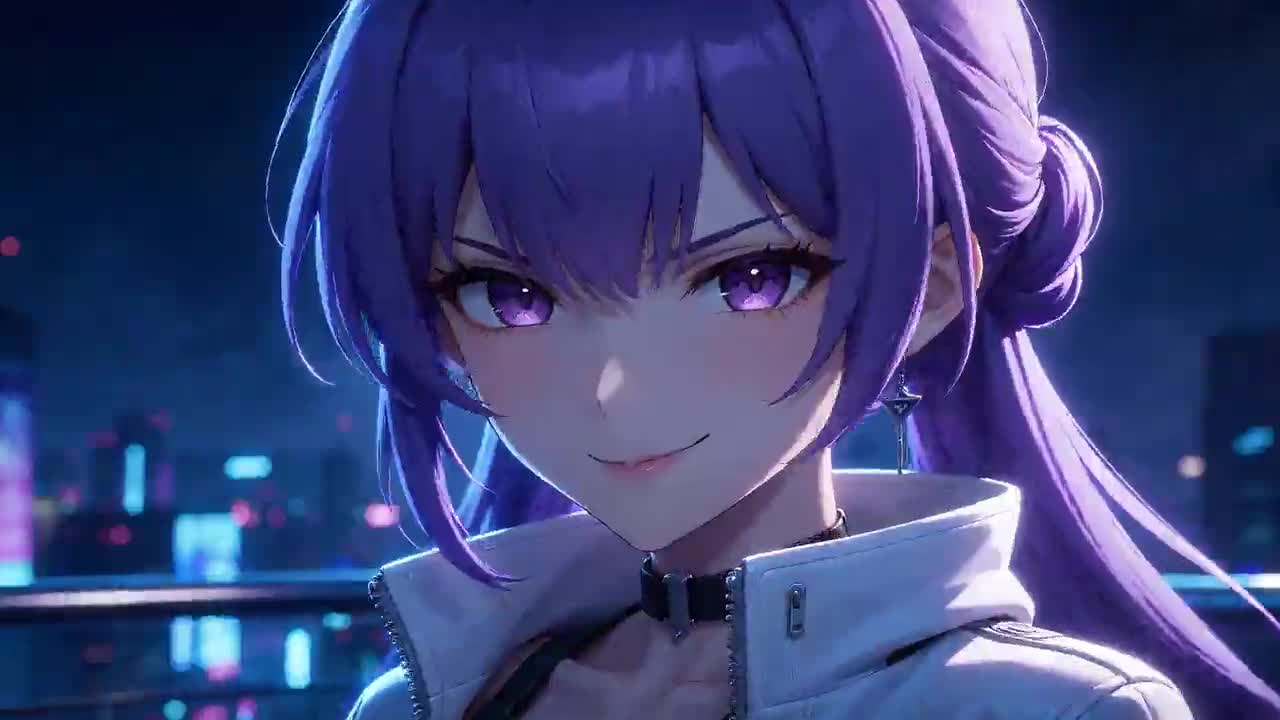
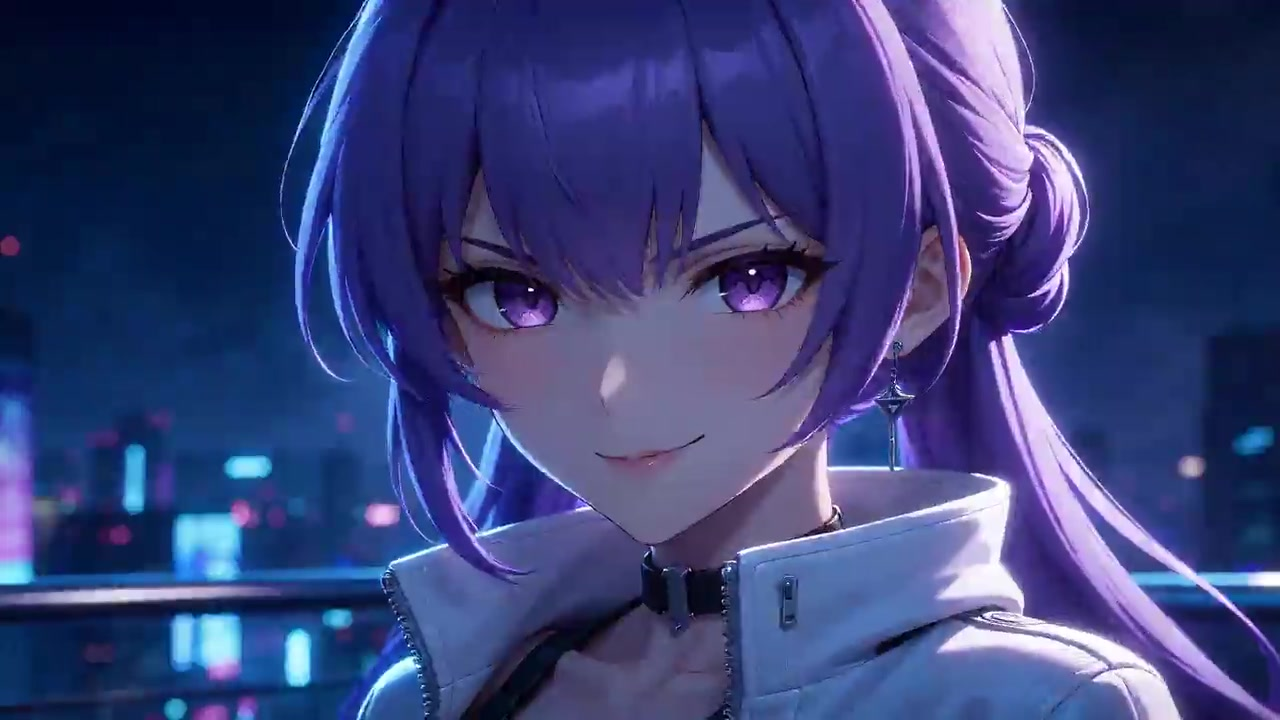
feat(hero): left-bottom typography + 15744 video cover, 720p Main CRF36

diff --git a/index.html b/index.html
@@ -105,28 +105,29 @@
     left:50%;right:50%;
     margin-left:-50vw;margin-right:-50vw;
     background:var(--midnight);
-    overflow:hidden;display:flex;flex-direction:column;justify-content:center;align-items:center;
+    overflow:hidden;display:flex;flex-direction:column;justify-content:flex-end;align-items:flex-start;
     padding:0;
     z-index:2;
   }
   .hero-media{position:absolute;inset:0;z-index:3;overflow:hidden;background:var(--midnight);width:100vw;height:100vh}
-  .hero-scrim{display:none}
-  /* Hello, I'm 谢丽丽 - 参考截图风格 */
-  .hero-inner{position:relative;z-index:50;width:100%;max-width:var(--page-max);margin:0 auto;text-align:center;padding:0 24px}
+  .hero-bg-video{position:absolute;inset:0;width:100%;height:100%;object-fit:cover;display:block}
+  .hero-scrim{position:absolute;inset:0;z-index:4;background:linear-gradient(180deg,rgba(7,7,7,.25) 0%,rgba(7,7,7,.45) 55%,rgba(7,7,7,.72) 100%);pointer-events:none}
+  /* Hello, I'm 谢丽丽 - 左下角 */
+  .hero-inner{position:relative;z-index:50;width:100%;max-width:var(--page-max);margin:0 auto;text-align:left;padding:0 48px 10vh}
 
   .hero-hello{
     font-family:'Dancing Script','Brush Script MT','Comic Sans MS',cursive;
     font-style:italic;
-    font-size:clamp(36px,6vw,64px);
+    font-size:clamp(32px,5vw,56px);
     color:var(--ember);
-    margin:0 0 8px;
+    margin:0 0 6px;
     line-height:1.1;
     letter-spacing:0;
   }
   .hero-name-large{
     font-family:'Noto Sans SC','HarmonyOS Sans SC','PingFang SC',-apple-system,'Source Han Sans SC','Microsoft YaHei',sans-serif;
     font-weight:900;
-    font-size:clamp(72px,14vw,160px);
+    font-size:clamp(64px,11vw,140px);
     line-height:1;
     letter-spacing:.02em;
     color:#fff;
@@ -134,11 +135,11 @@
   }
   .hero-role{
     font-family:var(--font-body);
-    font-size:clamp(13px,2vw,16px);
+    font-size:clamp(13px,1.6vw,16px);
     font-weight:400;
     letter-spacing:.12em;
-    color:rgba(255,255,255,.6);
-    margin:28px 0 0;
+    color:rgba(255,255,255,.72);
+    margin:18px 0 0;
     text-transform:uppercase;
   }
   /* 旧 hero 元素已移除，保留兼容 */
@@ -502,10 +503,10 @@
     .site-header{padding:9px 12px 9px 18px;top:14px;right:14px}
     .nav{display:none}
     section{padding:64px 20px}
-    .hero-inner{padding:0 20px}
-    .hero-hello{font-size:clamp(28px,8vw,44px);margin-bottom:4px}
-    .hero-name-large{font-size:clamp(56px,16vw,96px)}
-    .hero-role{font-size:12px;letter-spacing:.08em;margin-top:18px}
+    .hero-inner{padding:0 20px 8vh}
+    .hero-hello{font-size:clamp(26px,7vw,40px);margin-bottom:4px}
+    .hero-name-large{font-size:clamp(48px,13vw,80px)}
+    .hero-role{font-size:12px;letter-spacing:.08em;margin-top:14px}
     .about-body{grid-template-columns:1fr;gap:36px}
     .about-card{grid-template-columns:1fr;gap:24px;max-width:880px}
     .about-card-right{padding:26px 22px;grid-template-columns:1fr;gap:18px}
@@ -574,7 +575,11 @@
 
 <!-- =========== Hero =========== -->
 <section class="hero" id="top">
-  <div class="hero-media"></div>
+  <div class="hero-media">
+    <video class="hero-bg-video" id="heroBgVideo" autoplay muted loop playsinline webkit-playsinline x5-playsinline preload="auto" poster="works/hero-poster.jpg?v=13" aria-hidden="true">
+      <source src="works/hero-cover.mp4?v=13" type="video/mp4">
+    </video>
+  </div>
   <div class="hero-scrim"></div>
 
   <!-- Hero content: Hello, I'm 谢丽丽 -->
@@ -1518,9 +1523,23 @@
 
 <script>
   /* 注册 Service Worker：让作品图片缓存到本地，重访秒开、不再重新加载 */
+  /* Hero 视频：自动播放兜底，微信/移动端被拦截后通过用户交互恢复 */
+  (function(){
+    var v = document.getElementById('heroBgVideo');
+    if (!v) return;
+    function tryPlay(){ if (!document.hidden) v.play().catch(function(){}); }
+    v.addEventListener('canplay', tryPlay);
+    v.addEventListener('loadeddata', tryPlay);
+    function wake(){ tryPlay(); }
+    document.addEventListener('visibilitychange', function(){ if (!document.hidden) tryPlay(); });
+    document.addEventListener('click', wake, {once:true});
+    document.addEventListener('touchstart', wake, {once:true});
+    setTimeout(tryPlay, 300);
+  })();
+
   if ('serviceWorker' in navigator) {
     window.addEventListener('load', function () {
-      navigator.serviceWorker.register('/sw.js?v=12').catch(function () {});
+      navigator.serviceWorker.register('/sw.js?v=13').catch(function () {});
     });
   }
 </script>

diff --git a/sw.js b/sw.js
@@ -4,7 +4,7 @@
  * 注意：升级时清理所有旧版本缓存（install + activate 都清理），
  *       避免旧 SW 缓存的旧视频残留导致用户一直看到老文件。
  */
-const CACHE = 'xielili-works-v12';
+const CACHE = 'xielili-works-v13';
 
 self.addEventListener('install', (e) => {
   e.waitUntil((async () => {
